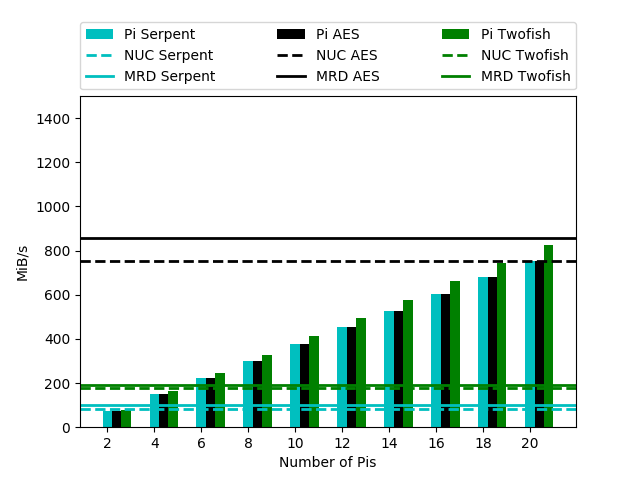
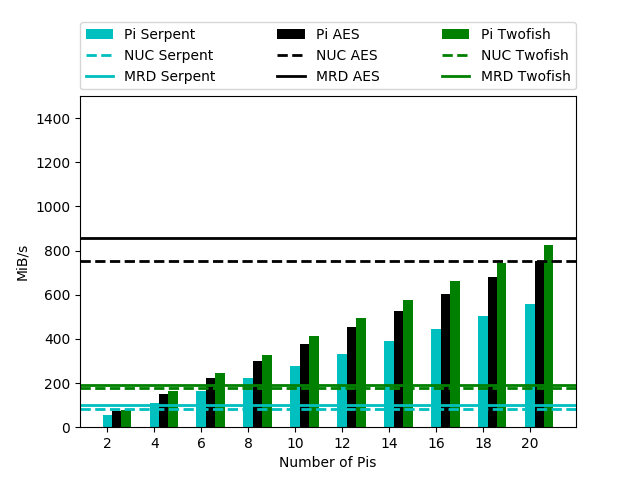
fixed plots, changed variable names

diff --git a/plots/barplot_256_decrypt.py b/plots/barplot_256_decrypt.py
@@ -9,21 +9,21 @@ fig,ax = plt.subplots()
 ######################## DECRYPT DATA #########################
 
 ###SERPENT DATA
-nuc_secrypt = 581.1
-hpc_secrypt = 374.3 
-pi_tecrypt = [56.94, 117.47, 177.78, 237.44, 297.69, 357.55, 417.43, 477.64, 538.07, 596.07]
+nuc_serpent_decrypt = 581.1
+mrd_serpent_decrypt = 374.3 
+pi_serpent_decrypt = [56.94, 117.47, 177.78, 237.44, 297.69, 357.55, 417.43, 477.64, 538.07, 596.07]
 
 
 ###TWOFISH data
-nuc_tecrypt = 340.4
-hpc_tecrypt = 378.7
-pi_tdcrypt = [84.24, 174.39, 263.29, 351.52, 440.33, 528.99, 616.92, 706.24, 795.29, 881.62]
+nuc_twofish_decrypt = 340.4
+mrd_twofish_decrypt = 378.7
+pi_twofish_decrypt = [84.24, 174.39, 263.29, 351.52, 440.33, 528.99, 616.92, 706.24, 795.29, 881.62]
 
 
 ###AES DATA
-nuc_aecrypt = 2335.6 
-hpc_aecrypt =  3164.7
-pi_aecrypt = [85.07, 176.64, 267.42, 357.07, 447.79, 538.5, 628.38, 719.12, 810.24, 897.66]
+nuc_aes_encrypt = 2335.6 
+mrd_aes_encrypt =  3164.7
+pi_aes_encrypt = [85.07, 176.64, 267.42, 357.07, 447.79, 538.5, 628.38, 719.12, 810.24, 897.66]
 
 
 ax.set_ylabel('MiB/s')
@@ -31,19 +31,17 @@ ax.set_xlabel('Number of Pis')
 
 bar_width=0.2
 
-ax.bar(x, pi_aecrypt, bar_width, color='c', label="Pi Serpent")
+ax.bar(x, pi_serpent_decrypt, bar_width, color='c', label="Pi Serpent")
+plt.axhline(y=mrd_serpent_decrypt, color='c', linestyle='-', label="MRD Serpent", linewidth=2)
+plt.axhline(y=nuc_serpent_decrypt, color='c', linestyle='--', label="NUC Serpent", linewidth=2)
 
+ax.bar(x+bar_width, pi_aes_encrypt, bar_width, color='k', label="Pi AES")
+plt.axhline(y=mrd_aes_encrypt, color='k', linestyle='-', label="MRD AES", linewidth=2)
+plt.axhline(y=nuc_aes_encrypt, color='k', linestyle='--', label="NUC AES", linewidth=2)
 
-plt.axhline(y=hpc_secrypt, color='c', linestyle='-', label="MRD Serpent", linewidth=2)
-plt.axhline(y=nuc_secrypt, color='c', linestyle='--', label="NUC Serpent", linewidth=2)
-
-ax.bar(x+bar_width, pi_aecrypt, bar_width, color='k', label="Pi AES")
-plt.axhline(y=hpc_aecrypt, color='k', linestyle='-', label="MRD AES", linewidth=2)
-plt.axhline(y=nuc_aecrypt, color='k', linestyle='--', label="NUC AES", linewidth=2)
-
-ax.bar(x+bar_width+bar_width, pi_tecrypt, bar_width, color='g', label="Pi Twofish")
-plt.axhline(y=hpc_tecrypt, color='g', linestyle='-', label="MRD Twofish", linewidth=2)
-plt.axhline(y=nuc_tecrypt, color='g', linestyle='--', label="NUC Twofish", linewidth=2)
+ax.bar(x+bar_width+bar_width, pi_twofish_decrypt, bar_width, color='g', label="Pi Twofish")
+plt.axhline(y=mrd_twofish_decrypt, color='g', linestyle='-', label="MRD Twofish", linewidth=2)
+plt.axhline(y=nuc_twofish_decrypt, color='g', linestyle='--', label="NUC Twofish", linewidth=2)
 
 
 ax.set_xticks(x)

diff --git a/plots/barplot_128_decrypt.py b/plots/barplot_128_decrypt.py
@@ -9,21 +9,21 @@ fig,ax = plt.subplots()
 ######################## DECRYPT DATA #########################
 
 ###SERPENT
-nuc_secrypt =  610.5 
-hpc_secrypt = 360.6
-pi_secrypt = [56.36, 116.87, 177.2, 236.77, 297.08, 357.06, 416.78, 477.14, 537.23,594.79]
+nuc_serpent_decrypt =  610.5 
+mrd_serpent_decrypt = 360.6
+pi_serpent_decrypt = [56.36, 116.87, 177.2, 236.77, 297.08, 357.06, 416.78, 477.14, 537.23,594.79]
 
 
 ###TWOFISH data
-nuc_tecrypt = 341.1
-hpc_tecrypt = 386.6 
-pi_tecrypt = [83.62, 173.32, 262.44, 350.58, 439.68, 528.52, 616.56, 705.74, 794.89, 880.6]
+nuc_twofish_decrypt = 341.1
+mrd_twofish_decrypt = 386.6 
+pi_twofish_decrypt = [83.62, 173.32, 262.44, 350.58, 439.68, 528.52, 616.56, 705.74, 794.89, 880.6]
 
 
 ###AES DATA
-nuc_aecrypt =  2889.1
-hpc_aecrypt = 3663.1
-pi_aecrypt = [112.01, 232.32, 352.67, 471.62, 591.98, 710.41,  827.78, 949.13, 1069.88, 1183.05]
+nuc_aes_decrypt =  2889.1
+mrd_aes_decrypt = 3663.1
+pi_aes_decrypt = [112.01, 232.32, 352.67, 471.62, 591.98, 710.41,  827.78, 949.13, 1069.88, 1183.05]
 
 
 
@@ -32,17 +32,17 @@ ax.set_xlabel('Number of Pis')
 
 bar_width=0.2
 
-ax.bar(x, pi_secrypt, bar_width, color='c', label="Pi Serpent")
-plt.axhline(y=hpc_secrypt, color='c', linestyle='-', label="MRD Serpent", linewidth=2)
-plt.axhline(y=nuc_secrypt, color='c', linestyle='--', label="NUC Serpent", linewidth=2)
+ax.bar(x, pi_serpent_decrypt, bar_width, color='c', label="Pi Serpent")
+plt.axhline(y=mrd_serpent_decrypt, color='c', linestyle='-', label="MRD Serpent", linewidth=2)
+plt.axhline(y=nuc_serpent_decrypt, color='c', linestyle='--', label="NUC Serpent", linewidth=2)
 
-ax.bar(x+bar_width, pi_aecrypt, bar_width, color='k', label="Pi AES")
-plt.axhline(y=hpc_aecrypt, color='k', linestyle='-', label="MRD AES", linewidth=2)
-plt.axhline(y=nuc_aecrypt, color='k', linestyle='--', label="NUC AES", linewidth=2)
+ax.bar(x+bar_width, pi_aes_decrypt, bar_width, color='k', label="Pi AES")
+plt.axhline(y=mrd_aes_decrypt, color='k', linestyle='-', label="MRD AES", linewidth=2)
+plt.axhline(y=nuc_aes_decrypt, color='k', linestyle='--', label="NUC AES", linewidth=2)
 
-ax.bar(x+bar_width+bar_width, pi_tecrypt, bar_width, color='g', label="Pi Twofish")
-plt.axhline(y=hpc_tecrypt, color='g', linestyle='-', label="MRD Twofish", linewidth=2)
-plt.axhline(y=nuc_tecrypt, color='g', linestyle='--', label="NUC Twofish", linewidth=2)
+ax.bar(x+bar_width+bar_width, pi_twofish_decrypt, bar_width, color='g', label="Pi Twofish")
+plt.axhline(y=mrd_twofish_decrypt, color='g', linestyle='-', label="MRD Twofish", linewidth=2)
+plt.axhline(y=nuc_twofish_decrypt, color='g', linestyle='--', label="NUC Twofish", linewidth=2)
 
 
 ax.set_xticks(x)

diff --git a/plots/barplot_256_encrypt.py b/plots/barplot_256_encrypt.py
@@ -10,21 +10,21 @@ fig,ax = plt.subplots()
 #################### ENCRYPT DATA ##############################
 
 ###SERPENT
-nuc_secrypt = 83.4 
-hpc_secrypt = 102.5
-pi_secrypt = [52.99, 109.49, 165.66, 221.78, 277.72, 333.67, 389.39, 445.48, 501.85, 555.92]
+nuc_serpent_encrypt = 83.4 
+mrd_serpent_encrypt = 102.5
+pi_serpent_encrypt = [52.99, 109.49, 165.66, 221.78, 277.72, 333.67, 389.39, 445.48, 501.85, 555.92]
 
 
 ###TWOFISH data
-nuc_tecrypt = 175.7
-hpc_tecrypt = 193.1
-pi_tecrypt = [78.67, 162.89, 245.24, 328.64, 411.93, 494.73, 577.22, 660.32, 743.47, 824.23]
+nuc_twofish_encrypt = 175.7
+mrd_twofish_encrypt = 193.1
+pi_twofish_encrypt = [78.67, 162.89, 245.24, 328.64, 411.93, 494.73, 577.22, 660.32, 743.47, 824.23]
 
 
 ###AES DATA
-nuc_aecrypt = 750.9
-hpc_aecrypt = 854.7
-pi_aecrypt = [71.51, 148.29, 224.71, 300.1, 376.4, 452.16, 527.57, 603.79, 679.94, 753.58]
+nuc_aes_encrypt = 750.9
+mrd_aes_encrypt = 854.7
+pi_aes_encrypt = [71.51, 148.29, 224.71, 300.1, 376.4, 452.16, 527.57, 603.79, 679.94, 753.58]
 
 
 
@@ -33,19 +33,17 @@ ax.set_xlabel('Number of Pis')
 
 bar_width=0.2
 
-ax.bar(x, pi_aecrypt, bar_width, color='c', label="Pi Serpent")
+ax.bar(x, pi_serpent_encrypt, bar_width, color='c', label="Pi Serpent")
+plt.axhline(y=mrd_serpent_encrypt, color='c', linestyle='-', label="MRD Serpent", linewidth=2)
+plt.axhline(y=nuc_serpent_encrypt, color='c', linestyle='--', label="NUC Serpent", linewidth=2)
 
+ax.bar(x+bar_width, pi_aes_encrypt, bar_width, color='k', label="Pi AES")
+plt.axhline(y=mrd_aes_encrypt, color='k', linestyle='-', label="MRD AES", linewidth=2)
+plt.axhline(y=nuc_aes_encrypt, color='k', linestyle='--', label="NUC AES", linewidth=2)
 
-plt.axhline(y=hpc_secrypt, color='c', linestyle='-', label="MRD Serpent", linewidth=2)
-plt.axhline(y=nuc_secrypt, color='c', linestyle='--', label="NUC Serpent", linewidth=2)
-
-ax.bar(x+bar_width, pi_aecrypt, bar_width, color='k', label="Pi AES")
-plt.axhline(y=hpc_aecrypt, color='k', linestyle='-', label="MRD AES", linewidth=2)
-plt.axhline(y=nuc_aecrypt, color='k', linestyle='--', label="NUC AES", linewidth=2)
-
-ax.bar(x+bar_width+bar_width, pi_tecrypt, bar_width, color='g', label="Pi Twofish")
-plt.axhline(y=hpc_tecrypt, color='g', linestyle='-', label="MRD Twofish", linewidth=2)
-plt.axhline(y=nuc_tecrypt, color='g', linestyle='--', label="NUC Twofish", linewidth=2)
+ax.bar(x+bar_width+bar_width, pi_twofish_encrypt, bar_width, color='g', label="Pi Twofish")
+plt.axhline(y=mrd_twofish_encrypt, color='g', linestyle='-', label="MRD Twofish", linewidth=2)
+plt.axhline(y=nuc_twofish_encrypt, color='g', linestyle='--', label="NUC Twofish", linewidth=2)
 
 
 ax.set_xticks(x)

diff --git a/plots/barplot_128_encrypt.py b/plots/barplot_128_encrypt.py
@@ -10,38 +10,38 @@ fig,ax = plt.subplots()
 #################### ENCRYPT DATA ##############################
 
 ###SERPENT
-nuc_secrypt = 79.2 
-hpc_secrypt = 100.8
-pi_secrypt = [52.54, 108.9, 165.15, 220.79, 276.91, 332.91, 388.33, 444.91, 501.04, 554.09]
+nuc_serpent_encrypt = 79.2 
+mrd_serpent_encrypt = 100.8
+pi_serpent_encrypt = [52.54, 108.9, 165.15, 220.79, 276.91, 332.91, 388.33, 444.91, 501.04, 554.09]
 
 
 ###TWOFISH data
-nuc_tecrypt = 182.3
-hpc_tecrypt = 194.8
-pi_tecrypt = [78.03, 161.88, 245.24, 327.55, 410.9, 493.95, 576.59, 659.61, 743.01, 823.11]
+nuc_twofish_encrypt = 182.3
+mrd_twofish_encrypt = 194.8
+pi_twofish_encrypt = [78.03, 161.88, 245.24, 327.55, 410.9, 493.95, 576.59, 659.61, 743.01, 823.11]
 
 
 ###AES DATA
-nuc_aecrypt = 977.0
-hpc_aecrypt = 1167.2
-pi_aecrypt = [95.26, 197.74, 299.99, 401.5, 503.73, 602.6, 703.38, 806.23, 909.04, 1007.0]
+nuc_aes_encrypt = 977.0
+mrd_aes_encrypt = 1167.2
+pi_aes_encrypt = [95.26, 197.74, 299.99, 401.5, 503.73, 602.6, 703.38, 806.23, 909.04, 1007.0]
 
 ax.set_ylabel('MiB/s')
 ax.set_xlabel('Number of Pis')
 
 bar_width=0.2
 
-ax.bar(x, pi_secrypt, bar_width, color='c', label="Pi Serpent")
-plt.axhline(y=hpc_secrypt, color='c', linestyle='-', label="MRD Serpent", linewidth=2)
-plt.axhline(y=nuc_secrypt, color='c', linestyle='--', label="NUC Serpent", linewidth=2)
+ax.bar(x, pi_serpent_encrypt, bar_width, color='c', label="Pi Serpent")
+plt.axhline(y=mrd_serpent_encrypt, color='c', linestyle='-', label="MRD Serpent", linewidth=2)
+plt.axhline(y=nuc_serpent_encrypt, color='c', linestyle='--', label="NUC Serpent", linewidth=2)
 
-ax.bar(x+bar_width, pi_aecrypt, bar_width, color='k', label="Pi AES")
-plt.axhline(y=hpc_aecrypt, color='k', linestyle='-', label="MRD AES", linewidth=2)
-plt.axhline(y=nuc_aecrypt, color='k', linestyle='--', label="NUC AES", linewidth=2)
+ax.bar(x+bar_width, pi_aes_encrypt, bar_width, color='k', label="Pi AES")
+plt.axhline(y=mrd_aes_encrypt, color='k', linestyle='-', label="MRD AES", linewidth=2)
+plt.axhline(y=nuc_aes_encrypt, color='k', linestyle='--', label="NUC AES", linewidth=2)
 
-ax.bar(x+bar_width+bar_width, pi_tecrypt, bar_width, color='g', label="Pi Twofish")
-plt.axhline(y=hpc_tecrypt, color='g', linestyle='-', label="MRD Twofish", linewidth=2)
-plt.axhline(y=nuc_tecrypt, color='g', linestyle='--', label="NUC Twofish", linewidth=2)
+ax.bar(x+bar_width+bar_width, pi_twofish_encrypt, bar_width, color='g', label="Pi Twofish")
+plt.axhline(y=mrd_twofish_encrypt, color='g', linestyle='-', label="MRD Twofish", linewidth=2)
+plt.axhline(y=nuc_twofish_encrypt, color='g', linestyle='--', label="NUC Twofish", linewidth=2)
 
 
 ax.set_xticks(x)
